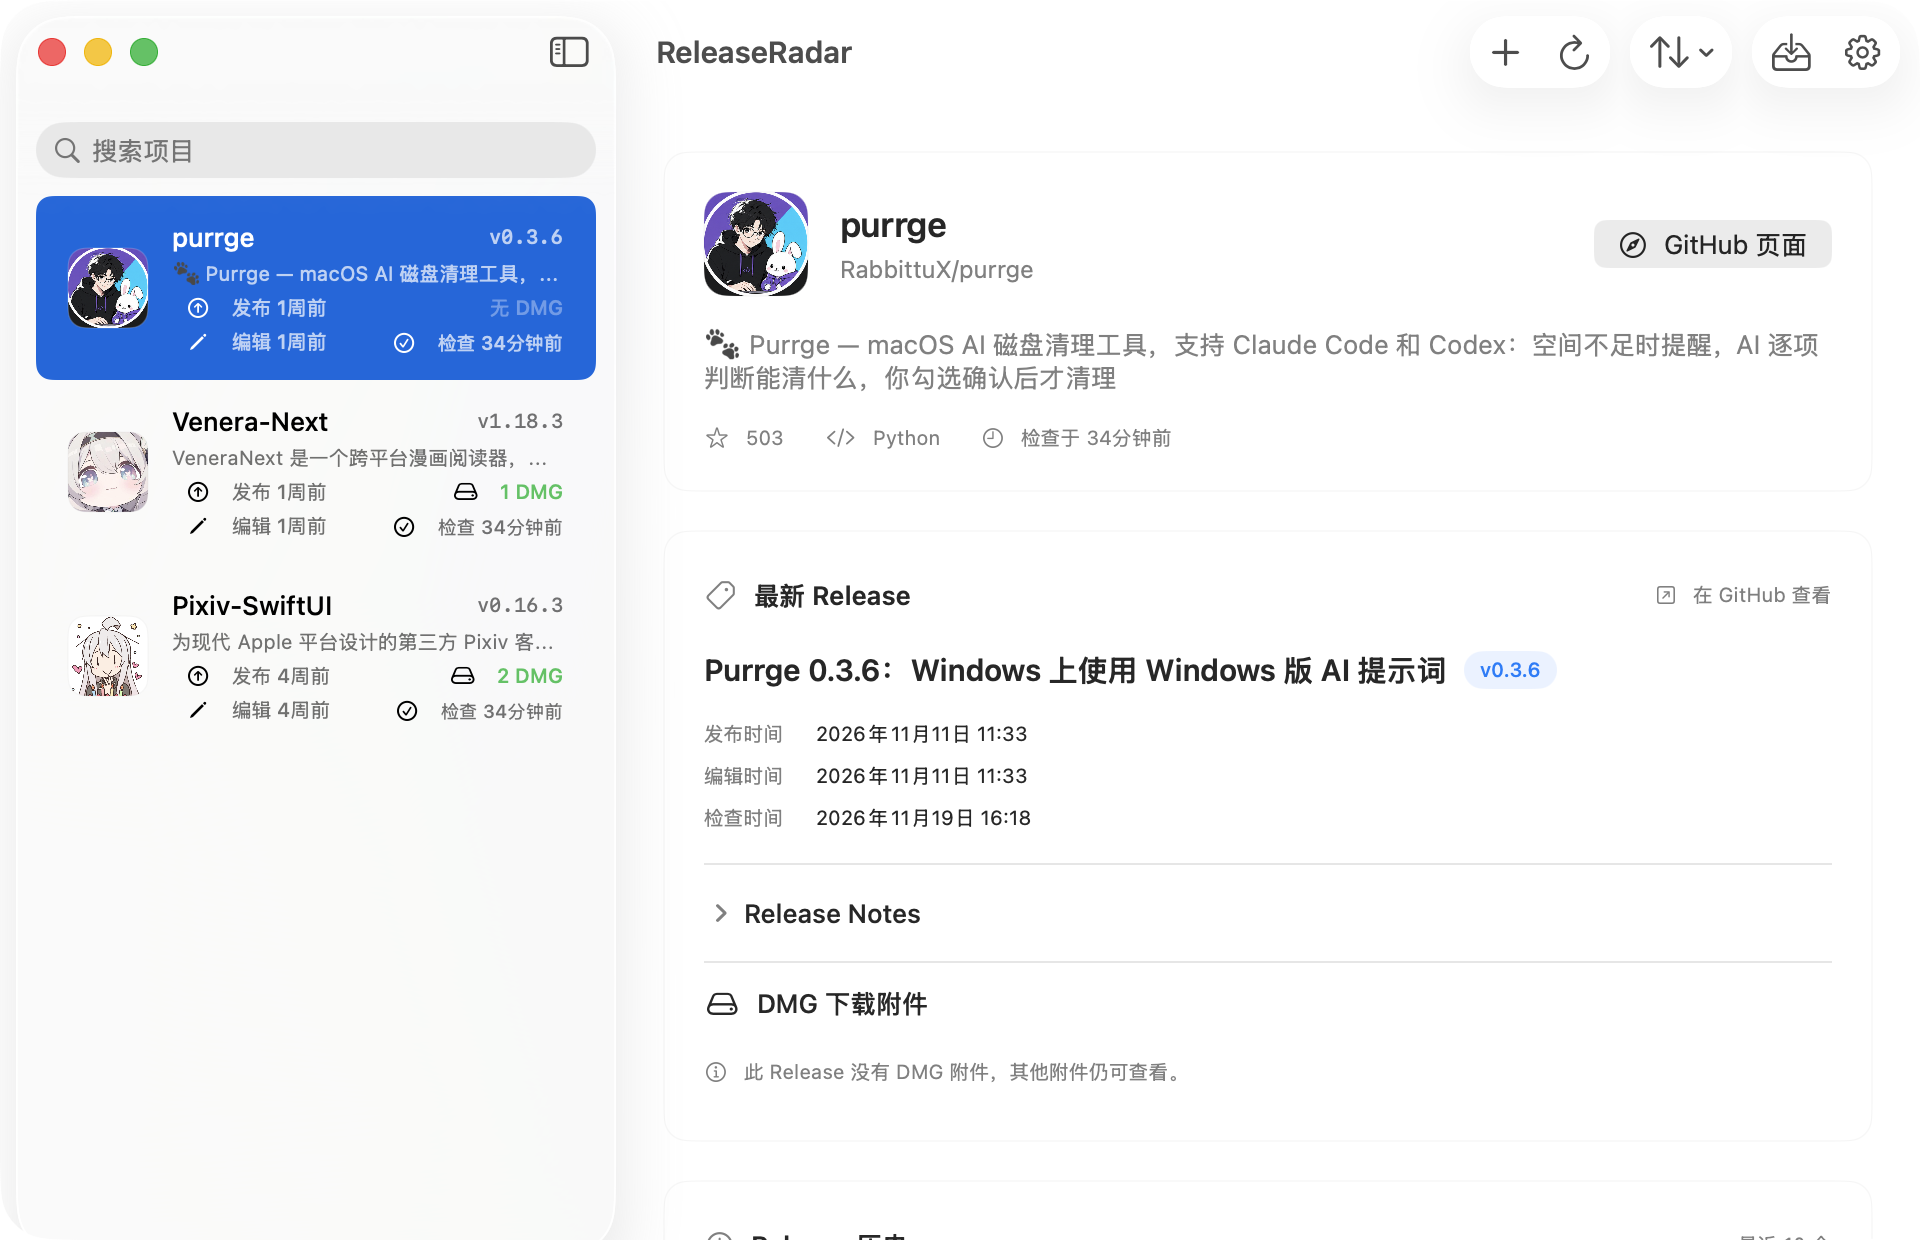
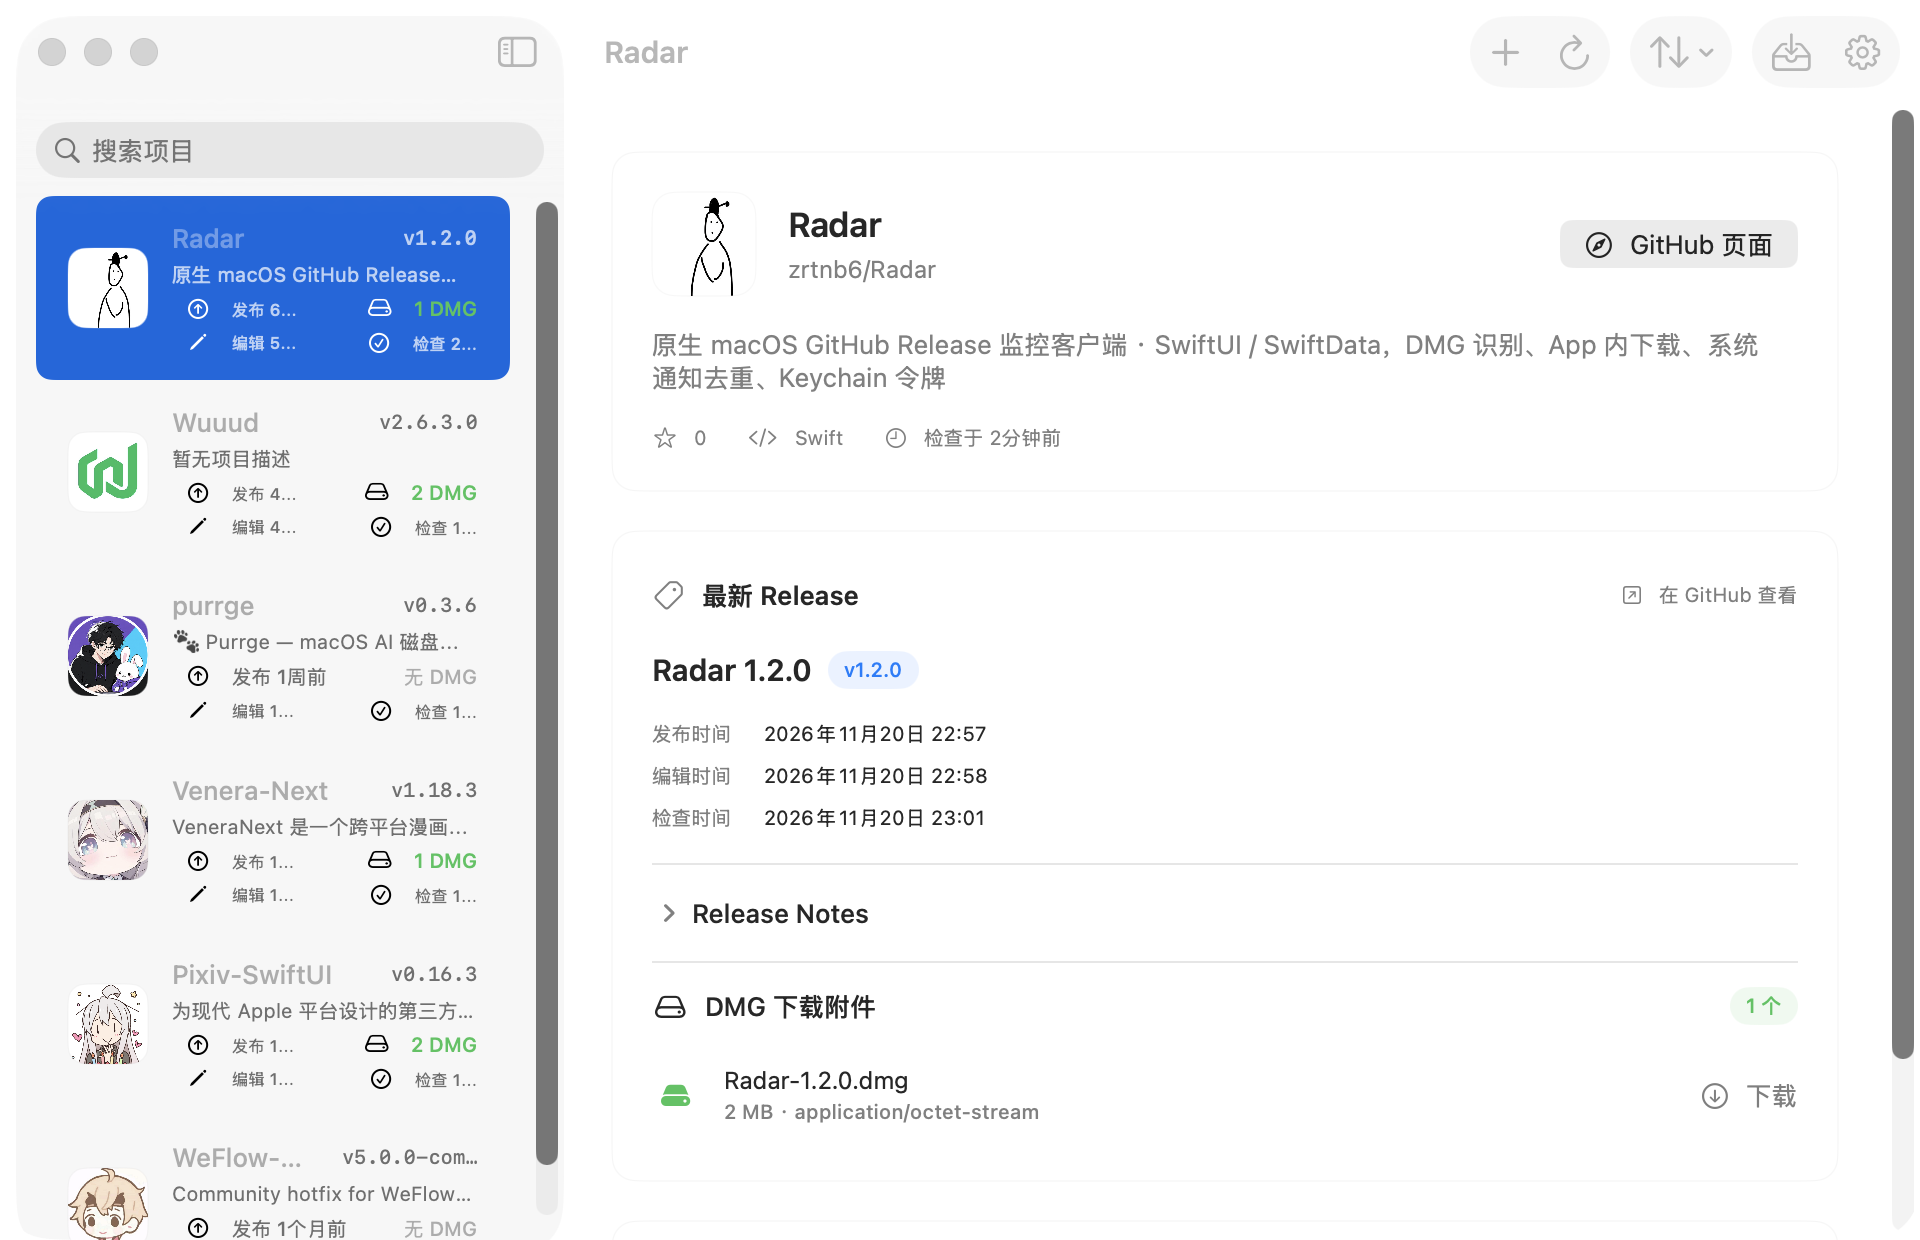
README 截图更新为 Radar 1.2.0 真实界面（含默认项目 zrtnb6/Radar）

diff --git a/README.md b/README.md
@@ -37,11 +37,9 @@
 
 ![浅色模式](Documentation/screenshots/radar-light.png)
 
-![深色模式](Documentation/screenshots/radar-dark.png)
-
 ![窄窗口](Documentation/screenshots/radar-compact.png)
 
-左侧项目列表是独立的一整块，边栏开关由系统放在标题栏最左侧，与窗口红绿灯同一条水平线；详情页展示最新 Release、可折叠的 Release Notes 与 DMG 附件。
+左侧项目列表是独立的一整块，边栏开关由系统放在标题栏最左侧，与窗口红绿灯同一条水平线；详情页展示最新 Release、可折叠的 Release Notes 与 DMG 附件。截图首位的 `zrtnb6/Radar` 即首次安装预置的默认项目，正监控 Radar 自己的 v1.2.0 发布。
 
 ## 功能特性
 
